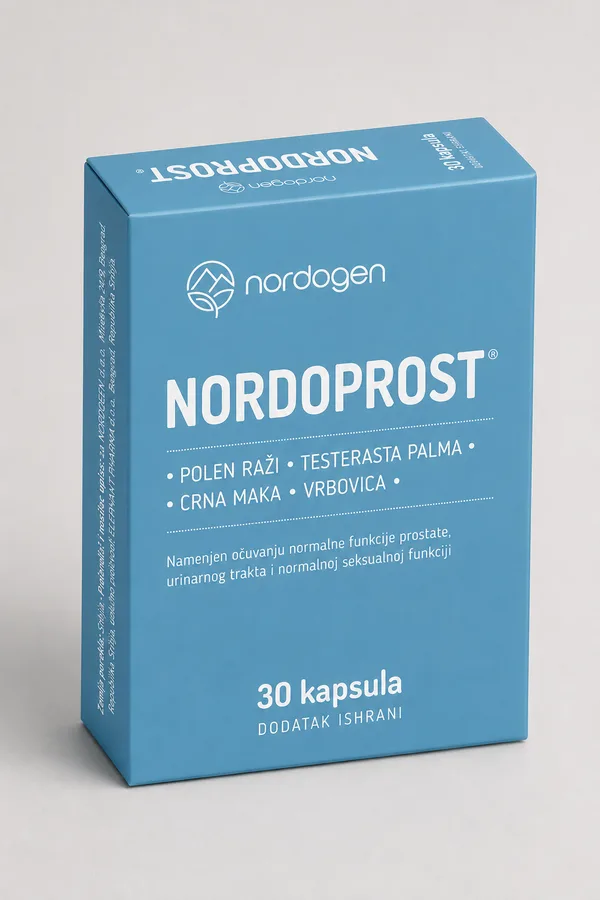
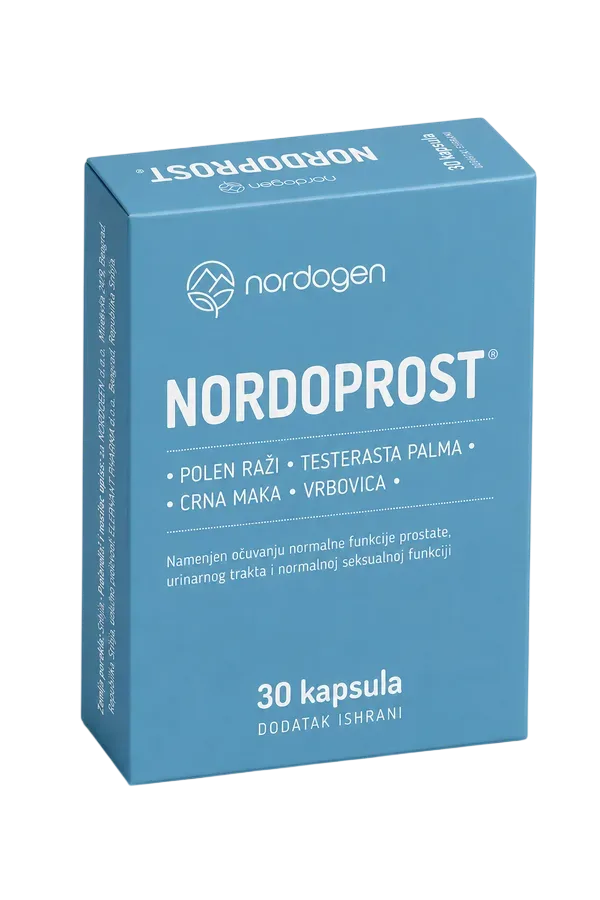
feat(products): use background-removed product renders
The client supplied cut-out versions of the six box renders, with a real
alpha channel. They are better than what the handoff shipped.

The originals were shot on a light grey backdrop, and the artboards hid that
with mix-blend-mode: multiply. Multiply does not remove grey — it leaves a
visible rectangle around each box and darkens the packaging colour. The
cutouts drop straight onto the well, so the blend mode is gone and the
padding now sets how much of the well the box fills (~88%, as drawn).

Note for whoever swaps an image next: next/image caches optimised output in
.next/cache/images keyed by URL rather than content, and the browser caches
on top. Replacing a file at the same path serves the old picture until both
caches are cleared, which looks exactly like a bad asset. Recorded in the
verification notes.

diff --git a/src/components/products/ProductCard.tsx b/src/components/products/ProductCard.tsx
@@ -35,9 +35,9 @@ export function ProductCard({ product }: { product: Product }) {
           alt=""
           fill
           sizes="(min-width: 1024px) 380px, 90vw"
-          /* The renders sit on white, so multiply drops that ground onto the
-             well instead of stamping a white rectangle over it. */
-          className="object-contain p-[7%] mix-blend-multiply"
+          /* The cutouts are cropped tight, so the padding is what sets how much
+             of the well the box fills — the artboards draw it at ~88%. */
+          className="object-contain p-3 lg:p-3.5"
         />
       </div>
 

diff --git a/AGENTS.md b/AGENTS.md
@@ -242,6 +242,14 @@ port. Zeros from nothing look identical to zeros from success.
 **Assert the thing exists before trusting any measurement of it.** e.g. confirm
 `document.querySelector('footer')` is non-null before believing a layout number.
 
+**Replacing an image file does not change what a screenshot shows.** `next/image` caches
+optimised output in `.next/cache/images` keyed by URL, not by content, and the browser caches on
+top of that. Swap `public/products/myonord.webp` for a different picture at the same path and two
+consecutive verification passes will keep showing the old one — which reads exactly like "the new
+asset is wrong". Delete `.next/cache/images` **and** drive Chrome with
+`Network.setCacheDisabled`. The same staleness can outlive a deployment, so bump the path when an
+image changes meaningfully.
+
 **A screenshot proves pixels, not markup.** `/keystatic` rendered a perfect-looking admin UI
 while serving no `<html>` or `<body>` at all.
 
@@ -298,10 +306,13 @@ The logo tagline is **live text**, not paths, so it localises (`UROLOGIJA • GI
 REGENERACIJA` / `UROLOGY • GYNECOLOGY • REGENERATION`).
 
 **There is photography now** — this reverses the pre-redesign rule. Two art-directed stills
-(`public/images/hero.jpg`, `lab.jpg`) plus six product box renders on white
-(`public/products/*.webp`). The renders are composited with `mix-blend-mode: multiply` onto the
-`well` ground, which is what removes their white background; drop the blend mode and you get a
-white rectangle stamped over the well.
+(`public/images/hero.jpg`, `lab.jpg`) plus six product box renders (`public/products/*.webp`).
+
+The renders are **background-removed cutouts with a real alpha channel**, so they need no blend
+mode and sit correctly on any ground. The handoff's originals were shot on a light grey backdrop
+and the artboards masked that with `mix-blend-mode: multiply`, which does not remove grey — it
+leaves a visible rectangle and darkens the packaging colour. If a new product photo ever shows a
+box in a tinted rectangle, it is an opaque render and needs cutting out, not a blend mode.
 
 `ArcMotif` is no longer used anywhere. Still no emoji and no icon fonts.
 

diff --git a/docs/redesign-2026-09.md b/docs/redesign-2026-09.md
@@ -10,7 +10,7 @@ from the artboards and why.
 |---|---|---|
 | Palette | `brand-blue` / `brand-teal` / `brand-crimson` on `surface` | `ink` / `paper` / `soft` / `accent`, plus three per-product accents |
 | Type | Jost, single family | Newsreader (display) + Work Sans (text) |
-| Imagery | none, by policy — `ArcMotif` geometry | two photographs and six product renders |
+| Imagery | none, by policy — `ArcMotif` geometry | two photographs and six cut-out product renders |
 | Home | hero, about, products, science | hero, products grid, "Zašto Nordogen" + four principles, contact band |
 | Nav | `/products`, `/about`, `/contact` (all 404) | on-page anchors |
 | Products | not modelled | `products` collection, per locale, six entries |
@@ -51,6 +51,11 @@ so the drawer copy would be a duplicate control.
 **The drawer is a disclosure, not a dialog.** It opens under the header with the page visible
 behind it, so it carries `aria-expanded` / `aria-controls` rather than `aria-modal`, and there
 is no focus trap. Escape closes it and returns focus to the trigger; body scroll locks.
+
+**Product renders are alpha cutouts, not the handoff's opaque files.** The originals sit on a
+light grey backdrop, and the artboards hid that with `mix-blend-mode: multiply` — which leaves
+the rectangle visible and darkens the packaging. The client supplied background-removed versions
+(kept in `design/handoff/assets/cutouts/`), so the blend mode is gone.
 
 **The logo is the brand lockup, not the artboards' circle-plus-Newsreader placeholder** — and
 its descriptive tagline (`UROLOGIJA • GINEKOLOGIJA • REGENERACIJA`) is gone. At lockup size it
